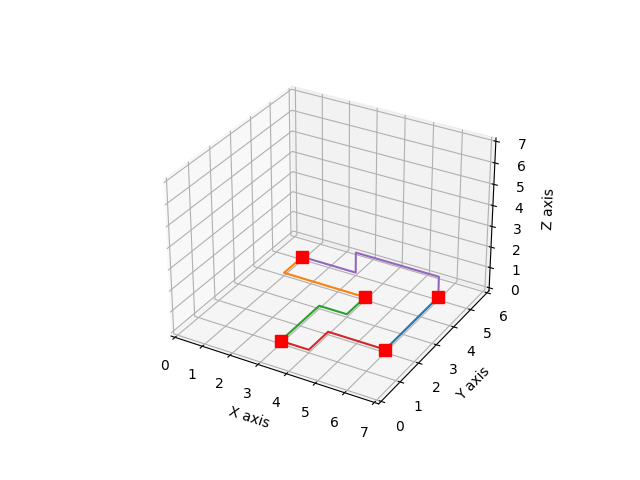
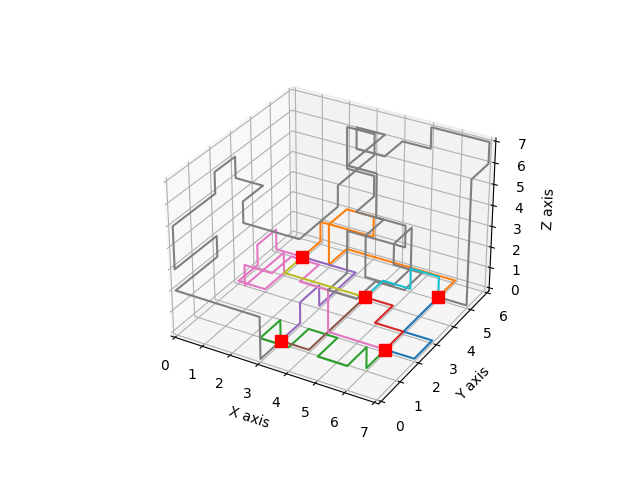
deadlineday

diff --git a/main.py b/main.py
@@ -38,54 +38,58 @@ def main(netlist_file, gate_coordinates, output_png, algorithm):
         elif algorithm == 'greedy':
             run_chip = Greedy_itt(chip)
         elif algorithm == 'random':
+            
+
             run_chip = randomise.run_random(chip)
-        
-        if run_chip == True:
-            score_2.append(run_chip.chip.calculate_value())
-    
-
-    print(score_2)
-        
-
-    output = run_chip.chip.df_output()
-    score = {'net': netlist_file.split("gates_netlists/")[1].replace("/", "_").replace("netlist", "net").split(".csv")[0], 'wires': run_chip.chip.calculate_value()}
-    output = output.append(score, ignore_index=True)
-    all_output.append(output)  
-    
-    # Make a dataframe
-    output.to_csv('output.csv', index=False)
-    
-    # Visualize the chip
-    visualization_3d(run_chip.chip, output_png)
-
-    hill = Hillclimber(run_chip.chip)
-
-    visualization_3d(hill.astar_chip, 'out2.png')
-
-###################RANDOM#########################
-
-    # if run_chip == True:
-    #     score_2.append(run_chip.calculate_value())
+            while run_chip == False:
+                run_chip = randomise.run_random(chip)
+    #     if run_chip == True:
+    #         score_2.append(run_chip.chip.calculate_value())
     
 
     # print(score_2)
-    # # print(statistics.mean(score_2))
         
 
-    # output = run_chip.df_output()
-    # score = {'net': netlist_file.split("gates_netlists/")[1].replace("/", "_").replace("netlist", "net").split(".csv")[0], 'wires': run_chip.calculate_value()}
+    # output = run_chip.chip.df_output()
+    # score = {'net': netlist_file.split("gates_netlists/")[1].replace("/", "_").replace("netlist", "net").split(".csv")[0], 'wires': run_chip.chip.calculate_value()}
     # output = output.append(score, ignore_index=True)
-    #     # all_output.append(output)  
+    # all_output.append(output)  
     
     # # Make a dataframe
     # output.to_csv('output.csv', index=False)
     
     # # Visualize the chip
-    # visualization_3d(run_chip, output_png)
+    # visualization_3d(run_chip.chip, output_png)
 
-    # hill = Hillclimber(run_chip)
+    # hill = Hillclimber(run_chip.chip)
 
     # visualization_3d(hill.astar_chip, 'out2.png')
+
+###################RANDOM#########################
+
+    if run_chip == True:
+        score_2.append(run_chip.calculate_value())
+    
+
+    print(score_2)
+        
+
+    output = run_chip.df_output()
+    score = {'net': netlist_file.split("gates_netlists/")[1].replace("/", "_").replace("netlist", "net").split(".csv")[0], 'wires': run_chip.calculate_value()}
+    output = output.append(score, ignore_index=True)
+    all_output.append(output)  
+    
+    #Make a dataframe
+    output.to_csv('output.csv', index=False)
+    
+    # Visualize the chip
+    visualization_3d(run_chip, output_png)
+
+    hill = Hillclimber(run_chip)
+    while hill == False:
+        hill = Hillclimber(run_chip)
+
+    visualization_3d(hill.astar_chip, 'out2.png')
 if __name__ == "__main__":
 
     # Set-up parsing command line arguments

diff --git a/code/algorithms/hillclimber.py b/code/algorithms/hillclimber.py
@@ -1,6 +1,7 @@
 import ast
 import copy
 from hashlib import new
+from matplotlib.pyplot import flag
 
 from scipy import rand
 from . import randomise
@@ -13,11 +14,15 @@ class Hillclimber():
     def __init__(self, astar_chip): 
         self.astar_chip = copy.deepcopy(astar_chip)
         self.score = astar_chip.calculate_value()
-        for iteration in range(10000):
-            print(f'Iteration {iteration}/1000, current value: {self.score}')
+        self.flag = False
+        for iteration in range(2000):
+            print(f'Iteration {iteration}/2000, current value: {self.score}')
             new_astar_chip = copy.deepcopy(self.astar_chip)
             self.reconfigure_astar_chip(new_astar_chip)
             self.check_solution(new_astar_chip)
+            if self.flag == True:
+                return False
+
         #self.astar_chip = new_astar_chip
 
 
@@ -31,6 +36,11 @@ class Hillclimber():
                 #print(connection_set)
                 self.undo_connection(new_astar_chip, random_connection['start_co'], random_connection['end_co'])  
                 path = randomise.random_path(new_astar_chip, random_connection['start_gate'], random_connection['end_gate'])
+                if path == False:
+                    try: path = randomise.random_path(new_astar_chip, random_connection['start_gate'], random_connection['end_gate'])
+                    except RecursionError:
+                        self.flag = True
+                        return
                 self.create_new_connection(new_astar_chip, path)
             
             #new_astar_chip.connections.remove(random_connection)         
@@ -38,6 +48,11 @@ class Hillclimber():
         
         self.undo_connection(new_astar_chip, new_astar_chip.connections[0]['start_co'], new_astar_chip.connections[0]['end_co'])
         path = randomise.random_path(new_astar_chip, new_astar_chip.connections[0]['start_gate'], new_astar_chip.connections[0]['end_gate'])
+        if path == False:
+            try: path = randomise.random_path(new_astar_chip, random_connection['start_gate'], random_connection['end_gate'])
+            except RecursionError:
+                self.flag = True
+                return
         self.create_new_connection(new_astar_chip, path)
         #new_astar_chip.connections.remove(new_astar_chip.connections[0])
         
@@ -47,7 +62,7 @@ class Hillclimber():
     def check_solution(self, new_astar_chip):
         new_score = new_astar_chip.calculate_value()        
         old_score = self.score
-        if new_score < 100:
+        if new_score < 1000:
             print(new_score)
         #print(new_astar_chip.calculate_intersections())
         if new_score <= old_score:

diff --git a/code/algorithms/randomise.py b/code/algorithms/randomise.py
@@ -20,6 +20,7 @@ sys.setrecursionlimit(5000)
 def run_random(chip):
     """Go over all connection that need to be made and ensure they are made"""
 
+    flag = False
     random_chip = copy.deepcopy(chip)
 
     # Iterate over the netlist
@@ -35,7 +36,9 @@ def run_random(chip):
         end_gate = connection['end_gate']
 
         path = random_path(random_chip, start_gate, end_gate)
-
+        if path == False:
+            flag = True
+            break
         # Change values in grid to the coordinates every grid point connects to
         for i in range(len(path)):
             x, y, z = path[i]
@@ -51,7 +54,10 @@ def run_random(chip):
         end_gate.connections.append(start_gate.id)
         random_chip.nets.append(net)
 
-    return random_chip
+    if flag == False:
+        return random_chip
+    else:
+        return False
 
 def random_path(random_chip, start_gate, end_gate):
     """
@@ -108,8 +114,7 @@ def random_path(random_chip, start_gate, end_gate):
 
                 # if a recursion error is occurring quit the program
                 except RecursionError:
-                    print("stuck")
-                    quit()
+                    return False
             else:
                 counter += 1
 
@@ -121,5 +126,4 @@ def random_path(random_chip, start_gate, end_gate):
 
             # if a recursion error is occurring quit the program
             except RecursionError:
-                print("stuck")
-                quit()
+                return False
